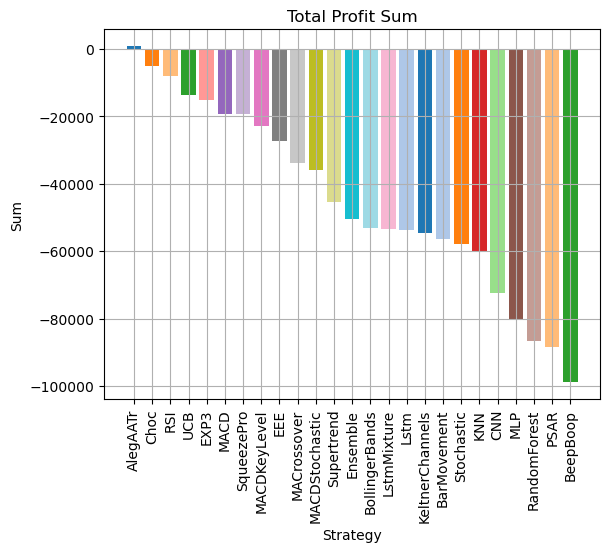
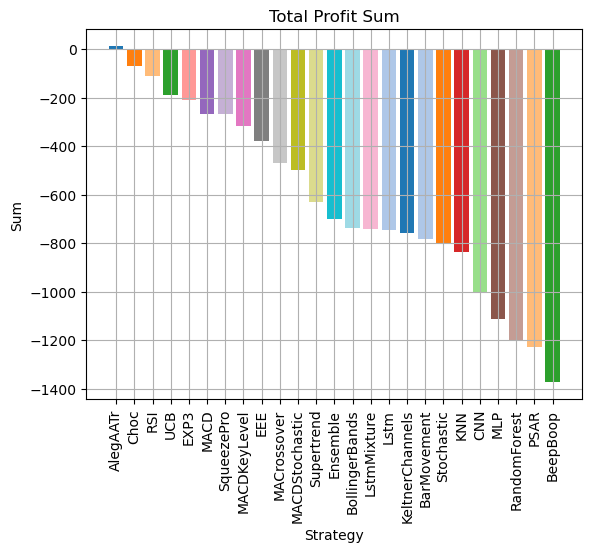
Update table results and add standard errors

Changed region(s): [[0.0608, 0.0, 1.0, 0.9855], [0.0, 0.4004, 0.0304, 0.4312]]

diff --git a/experiments/crunch_numbers.py b/experiments/crunch_numbers.py
@@ -10,6 +10,7 @@ def crunch_numbers() -> None:
     def total_profit() -> None:
         all_profits, recent_two_profits, m30_profits, h1_profits, h4_profits = {}, {}, {}, {}, {}
         all_profit_sums, m30_profit_sums, h1_profit_sums, h4_profit_sums = {}, {}, {}, {}
+        eur_usd_profits, usd_jpy_profits, gbp_chf_profits = {}, {}, {}
         directory = '../experiments/results/final_balances_csv/'
         file_list = os.listdir(directory)
 
@@ -44,6 +45,15 @@ def crunch_numbers() -> None:
                 if '2021' in file_name or '2022' in file_name:
                     recent_two_profits[strategy] = recent_two_profits.get(strategy, []) + [profit]
 
+                if 'Eur_Usd' in file_name:
+                    eur_usd_profits[strategy] = eur_usd_profits.get(strategy, []) + [profit]
+
+                elif 'Usd_Jpy' in file_name:
+                    usd_jpy_profits[strategy] = usd_jpy_profits.get(strategy, []) + [profit]
+
+                else:
+                    gbp_chf_profits[strategy] = gbp_chf_profits.get(strategy, []) + [profit]
+
             for pair_time_frame in results_by_pair_time_frame.keys():
                 if pair_time_frame in file_name:
                     for strategy in df.columns[1:]:
@@ -53,10 +63,13 @@ def crunch_numbers() -> None:
                                                                                                          []) + [profit]
 
         # Create tuples for each strategy and profit sum
-        profit_with_names = [(strategy, profit) for strategy, profit in all_profit_sums.items()]
-        m30_with_names = [(strategy, profit) for strategy, profit in m30_profit_sums.items()]
-        h1_with_names = [(strategy, profit) for strategy, profit in h1_profit_sums.items()]
-        h4_with_names = [(strategy, profit) for strategy, profit in h4_profit_sums.items()]
+        profit_with_names = [(strategy, np.array(profit).mean()) for strategy, profit in all_profits.items()]
+        m30_with_names = [(strategy, np.array(profit).mean()) for strategy, profit in m30_profits.items()]
+        h1_with_names = [(strategy, np.array(profit).mean()) for strategy, profit in h1_profits.items()]
+        h4_with_names = [(strategy, np.array(profit).mean()) for strategy, profit in h4_profits.items()]
+        eur_usd_with_names = [(strategy, np.array(profit).mean()) for strategy, profit in eur_usd_profits.items()]
+        usd_jpy_with_names = [(strategy, np.array(profit).mean()) for strategy, profit in usd_jpy_profits.items()]
+        gbp_chf_with_names = [(strategy, np.array(profit).mean()) for strategy, profit in gbp_chf_profits.items()]
 
         # Sort the results so that the most profitable results are first
         profit_with_names.sort(key=lambda x: x[1], reverse=True)
@@ -65,17 +78,21 @@ def crunch_numbers() -> None:
         h4_with_names.sort(key=lambda x: x[1], reverse=True)
 
         # Print the profit averages and print latex table (for the paper)
-        total_avg = 0
+        total_avg, total_se = 0, 0
         latex_data, latex_headers = {}, ['Strategy', 'Overall']
         print('PROFIT AVERAGES ACROSS EVERY CATEGORY')
 
-        for strategy, profit in profit_with_names:
-            avg = profit / 10
+        for strategy, avg in profit_with_names:
             print(f'{strategy}\'s average profit: {avg}')
             total_avg += avg
             latex_data[strategy] = [avg]
+            profits = np.array(all_profits[strategy])
+            se = profits.std() / len(profits) ** 0.5
+            print(f'{strategy}\'s standard error: {round(se)}')
+            total_se += se
 
-        print(f'AVERAGE PROFIT AVG: {total_avg / len(profit_with_names)}\n')
+        print(f'AVERAGE PROFIT AVG: {total_avg / len(profit_with_names)}')
+        print(f'AVERAGE PROFIT SE: {total_se / len(profit_with_names)}\n')
 
         for time_frame in TIME_FRAMES:
             latex_headers.append(time_frame)
@@ -85,8 +102,22 @@ def crunch_numbers() -> None:
 
             print(f'PROFIT AVERAGES FOR {time_frame}:')
 
-            for strategy, profit in sum_to_print:
-                avg = profit / 10
+            for strategy, avg in sum_to_print:
+                print(f'{strategy}\'s average profit: {avg}')
+                total_avg += avg
+                latex_data[strategy] += [avg]
+
+            print(f'AVERAGE PROFIT AVG: {total_avg / len(sum_to_print)}\n')
+
+        for currency_pair in CURRENCY_PAIRS:
+            latex_headers.append(currency_pair)
+            total_avg, curr_row = 0, []
+            sum_to_print = eur_usd_with_names if currency_pair == 'Eur_Usd' else (
+                usd_jpy_with_names if currency_pair == 'Usd_Jpy' else gbp_chf_with_names)
+
+            print(f'PROFIT AVERAGES FOR {currency_pair}:')
+
+            for strategy, avg in sum_to_print:
                 print(f'{strategy}\'s average profit: {avg}')
                 total_avg += avg
                 latex_data[strategy] += [avg]
@@ -98,7 +129,7 @@ def crunch_numbers() -> None:
         latex_headers.append(latex_headers.pop(1))
         latex_df = latex_df[latex_headers]
 
-        print(latex_df.round(3).to_latex(index=False))
+        print(latex_df.to_latex(index=False, float_format=lambda x: '{:.0f}'.format(round(x))))
 
         names_to_colors = pickle.load(open('./plots/color_mappings.pickle', 'rb'))
 
